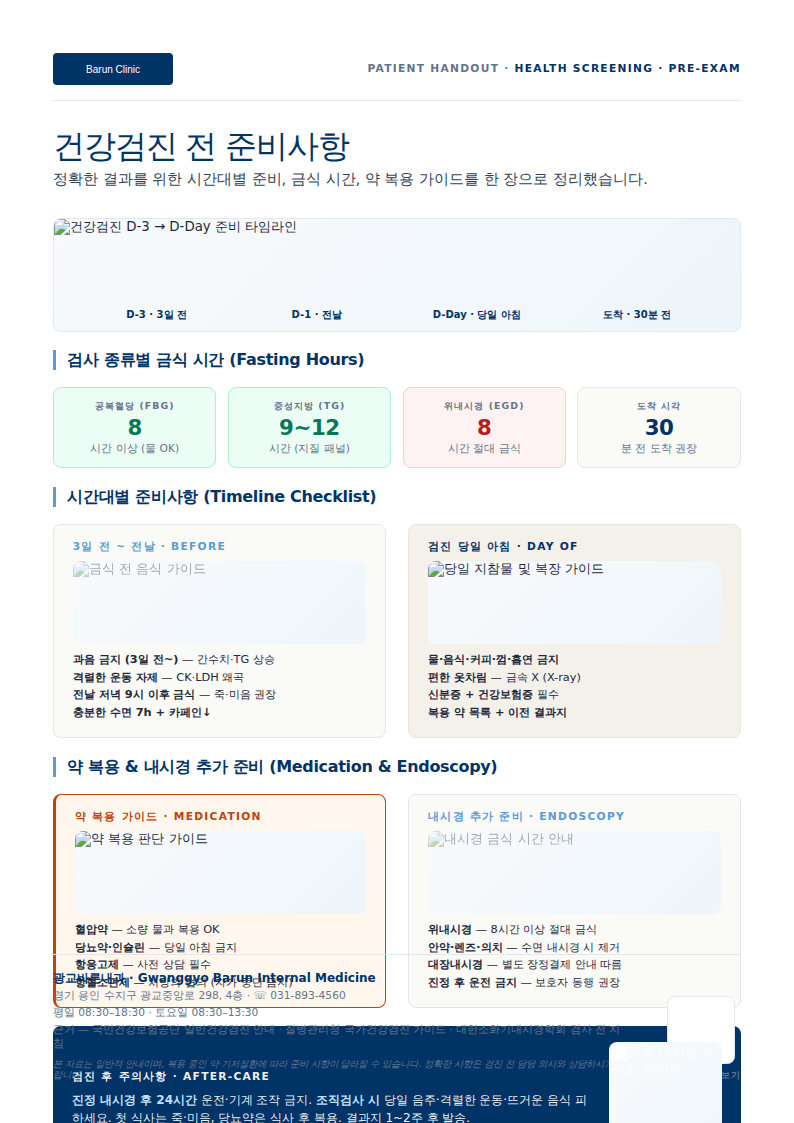
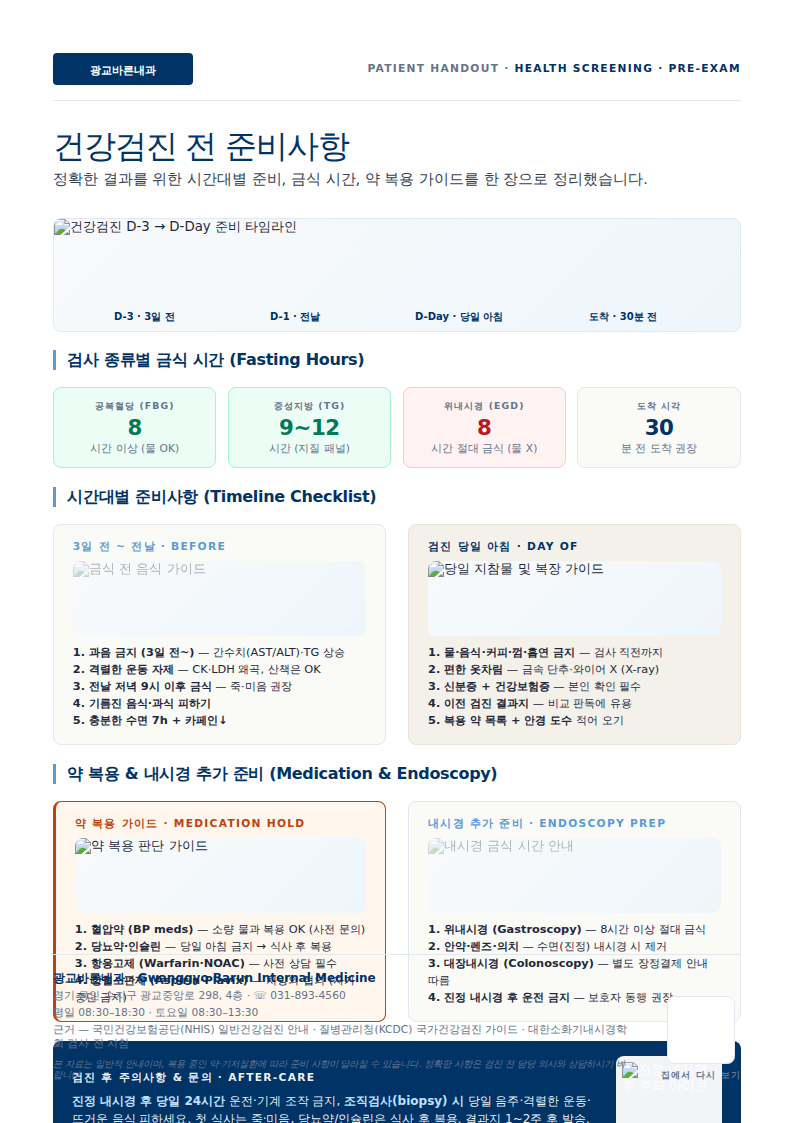
Finalize checkup-prep handout v2 with polished layout
- Restored full 5-item checklists for completeness
- Refined hero overlay grid columns to match image sections
- Added phone number to after-care card
- White container for post-sedation image in navy card
- Tightened image heights to 20mm for better density

https://claude.ai/code/session_012AgkqpJeVGjpJoXJLXrEUp

diff --git a/handouts/screening/checkup-prep/index.html b/handouts/screening/checkup-prep/index.html
@@ -37,14 +37,13 @@
   <!-- BODY -->
   <main class="page__body">
 
-    <!-- ★ IMAGE SLOT 1: 건강검진 준비 타임라인 (NEW — 182mm × 30mm) -->
+    <!-- 히어로 타임라인 인포그래픽 (182mm × 30mm, ratio 6.07:1, 2184×360px) -->
     <section>
       <div class="ai-visual" style="height:30mm; min-height:0; position:relative;">
         <img class="ai-visual__image"
              src="checkup-prep-timeline.png"
              alt="건강검진 D-3 → D-Day 준비 타임라인">
-        <!-- HTML overlay labels (이미지에 한글 텍스트 없으므로 오버레이) -->
-        <div style="position:absolute; inset:0; display:grid; grid-template-columns:repeat(4,1fr); align-items:end; padding:0 6mm 2.5mm;">
+        <div style="position:absolute; inset:0; display:grid; grid-template-columns:23% 23% 27% 23%; align-items:end; padding:0 4mm 2mm;">
           <div style="text-align:center; font-size:7.5pt; font-weight:600; color:var(--color-navy);">D-3 · 3일 전</div>
           <div style="text-align:center; font-size:7.5pt; font-weight:600; color:var(--color-navy);">D-1 · 전날</div>
           <div style="text-align:center; font-size:7.5pt; font-weight:600; color:var(--color-navy);">D-Day · 당일 아침</div>
@@ -70,7 +69,7 @@
         <div class="stat-cell stat-cell--high">
           <div class="stat-cell__label">위내시경 (EGD)</div>
           <div class="stat-cell__value">8</div>
-          <div class="stat-cell__unit">시간 절대 금식</div>
+          <div class="stat-cell__unit">시간 절대 금식 (물 X)</div>
         </div>
         <div class="stat-cell">
           <div class="stat-cell__label">도착 시각</div>
@@ -80,107 +79,103 @@
       </div>
     </section>
 
-    <!-- 시간대별 준비 (2-col: 음식 비주얼 + 당일 준비물) -->
+    <!-- 시간대별 준비사항 (2-col) -->
     <section>
       <h2 class="section-heading">시간대별 준비사항 (Timeline Checklist)</h2>
       <div class="body-2col">
 
-        <!-- 3일 전~전날: 기존 에셋 + 핵심 텍스트 -->
+        <!-- 3일 전~전날 -->
         <div class="card">
           <div class="card-label card-label--steel">3일 전 ~ 전날 · BEFORE</div>
-          <!-- ★ IMAGE SLOT 2: 기존 에셋 egd-prep-food-grid (88mm card 내부) -->
-          <div class="ai-visual" style="height:22mm; min-height:0; margin-bottom:2mm; border:none;">
+          <div class="ai-visual" style="height:20mm; min-height:0; margin-bottom:2mm; border:none;">
             <img class="ai-visual__image"
                  src="../../../shared/assets/generated/egd-prep-food-grid-20260513.png"
                  alt="금식 전 음식 가이드">
           </div>
-          <ul class="card-list" style="font-size:8.5pt; line-height:1.55;">
-            <li><strong>과음 금지 (3일 전~)</strong> — 간수치·TG 상승</li>
-            <li><strong>격렬한 운동 자제</strong> — CK·LDH 왜곡</li>
-            <li><strong>전날 저녁 9시 이후 금식</strong> — 죽·미음 권장</li>
-            <li><strong>충분한 수면 7h + 카페인↓</strong></li>
+          <ul class="card-list" style="font-size:8.5pt; line-height:1.5;">
+            <li><strong>1. 과음 금지 (3일 전~)</strong> — 간수치(AST/ALT)·TG 상승</li>
+            <li><strong>2. 격렬한 운동 자제</strong> — CK·LDH 왜곡, 산책은 OK</li>
+            <li><strong>3. 전날 저녁 9시 이후 금식</strong> — 죽·미음 권장</li>
+            <li><strong>4. 기름진 음식·과식 피하기</strong></li>
+            <li><strong>5. 충분한 수면 7h + 카페인↓</strong></li>
           </ul>
         </div>
 
-        <!-- 당일 아침: 새 이미지 + 핵심 텍스트 -->
+        <!-- 당일 아침 (78mm × 20mm 내부 이미지, ratio 3.9:1) -->
         <div class="card card--accent">
           <div class="card-label card-label--navy">검진 당일 아침 · DAY OF</div>
-          <!-- ★ IMAGE SLOT 3: 당일 지참물 + 복장 (NEW — 78mm × 22mm) -->
-          <div class="ai-visual" style="height:22mm; min-height:0; margin-bottom:2mm; border:none;">
+          <div class="ai-visual" style="height:20mm; min-height:0; margin-bottom:2mm; border:none;">
             <img class="ai-visual__image"
                  src="checkup-day-of-items.png"
                  alt="당일 지참물 및 복장 가이드">
           </div>
-          <ul class="card-list" style="font-size:8.5pt; line-height:1.55;">
-            <li><strong>물·음식·커피·껌·흡연 금지</strong></li>
-            <li><strong>편한 옷차림</strong> — 금속 X (X-ray)</li>
-            <li><strong>신분증 + 건강보험증</strong> 필수</li>
-            <li><strong>복용 약 목록 + 이전 결과지</strong></li>
+          <ul class="card-list" style="font-size:8.5pt; line-height:1.5;">
+            <li><strong>1. 물·음식·커피·껌·흡연 금지</strong> — 검사 직전까지</li>
+            <li><strong>2. 편한 옷차림</strong> — 금속 단추·와이어 X (X-ray)</li>
+            <li><strong>3. 신분증 + 건강보험증</strong> — 본인 확인 필수</li>
+            <li><strong>4. 이전 검진 결과지</strong> — 비교 판독에 유용</li>
+            <li><strong>5. 복용 약 목록 + 안경 도수</strong> 적어 오기</li>
           </ul>
         </div>
 
       </div>
     </section>
 
-    <!-- 약 복용 & 내시경 (2-col: 약 비주얼 + 내시경 비주얼) -->
+    <!-- 약 복용 & 내시경 (2-col) -->
     <section>
       <h2 class="section-heading">약 복용 & 내시경 추가 준비 (Medication & Endoscopy)</h2>
       <div class="body-2col">
 
-        <!-- 약 복용 가이드 -->
+        <!-- 약 복용 (78mm × 20mm 내부 이미지, ratio 3.9:1) -->
         <div class="card card--warning">
-          <div class="card-label card-label--warning">약 복용 가이드 · MEDICATION</div>
-          <!-- ★ IMAGE SLOT 4: 약 복용 판단 아이콘 (NEW — 78mm × 22mm) -->
-          <div class="ai-visual" style="height:22mm; min-height:0; margin-bottom:2mm; border:none;">
+          <div class="card-label card-label--warning">약 복용 가이드 · MEDICATION HOLD</div>
+          <div class="ai-visual" style="height:20mm; min-height:0; margin-bottom:2mm; border:none;">
             <img class="ai-visual__image"
                  src="checkup-medication-guide.png"
                  alt="약 복용 판단 가이드">
           </div>
-          <ul class="card-list" style="font-size:8.5pt; line-height:1.55;">
-            <li><strong>혈압약</strong> — 소량 물과 복용 OK</li>
-            <li><strong>당뇨약·인슐린</strong> — 당일 아침 금지</li>
-            <li><strong>항응고제</strong> — 사전 상담 필수</li>
-            <li><strong>항혈소판제</strong> — 처방의 협의 (자가 중단 금지)</li>
+          <ul class="card-list" style="font-size:8.5pt; line-height:1.5;">
+            <li><strong>1. 혈압약 (BP meds)</strong> — 소량 물과 복용 OK (사전 문의)</li>
+            <li><strong>2. 당뇨약·인슐린</strong> — 당일 아침 금지 → 식사 후 복용</li>
+            <li><strong>3. 항응고제 (Warfarin·NOAC)</strong> — 사전 상담 필수</li>
+            <li><strong>4. 항혈소판제 (Aspirin·Plavix)</strong> — 처방의 협의 (자가 중단 금지)</li>
           </ul>
         </div>
 
         <!-- 내시경 추가 준비 -->
         <div class="card">
-          <div class="card-label card-label--steel">내시경 추가 준비 · ENDOSCOPY</div>
-          <!-- ★ IMAGE SLOT 5: 기존 에셋 egd-prep-fasting-clock -->
-          <div class="ai-visual" style="height:22mm; min-height:0; margin-bottom:2mm; border:none;">
+          <div class="card-label card-label--steel">내시경 추가 준비 · ENDOSCOPY PREP</div>
+          <div class="ai-visual" style="height:20mm; min-height:0; margin-bottom:2mm; border:none;">
             <img class="ai-visual__image"
                  src="../../../shared/assets/generated/egd-prep-fasting-clock-20260513.png"
                  alt="내시경 금식 시간 안내">
           </div>
-          <ul class="card-list" style="font-size:8.5pt; line-height:1.55;">
-            <li><strong>위내시경</strong> — 8시간 이상 절대 금식</li>
-            <li><strong>안약·렌즈·의치</strong> — 수면 내시경 시 제거</li>
-            <li><strong>대장내시경</strong> — 별도 장정결제 안내 따름</li>
-            <li><strong>진정 후 운전 금지</strong> — 보호자 동행 권장</li>
+          <ul class="card-list" style="font-size:8.5pt; line-height:1.5;">
+            <li><strong>1. 위내시경 (Gastroscopy)</strong> — 8시간 이상 절대 금식</li>
+            <li><strong>2. 안약·렌즈·의치</strong> — 수면(진정) 내시경 시 제거</li>
+            <li><strong>3. 대장내시경 (Colonoscopy)</strong> — 별도 장정결제 안내 따름</li>
+            <li><strong>4. 진정 내시경 후 운전 금지</strong> — 보호자 동행 권장</li>
           </ul>
         </div>
 
       </div>
     </section>
 
-    <!-- 검진 후 안내 (navy card + 기존 진정 후 경고 이미지) -->
+    <!-- 검진 후 주의사항 (navy card + 기존 진정 후 경고 이미지) -->
     <section>
       <div class="card card--navy" style="display:grid; grid-template-columns:1fr auto; gap:4mm; align-items:center;">
         <div>
-          <div class="card-label">검진 후 주의사항 · AFTER-CARE</div>
+          <div class="card-label">검진 후 주의사항 & 문의 · AFTER-CARE</div>
           <div style="font-size:9pt; line-height:1.5;">
-            <strong style="color:var(--color-sky);">진정 내시경 후 24시간</strong> 운전·기계 조작 금지.
-            <strong style="color:var(--color-sky);">조직검사 시</strong> 당일 음주·격렬한 운동·뜨거운 음식 피하세요.
-            첫 식사는 죽·미음, 당뇨약은 식사 후 복용. 결과지 1~2주 후 발송.
+            <strong style="color:var(--color-sky);">진정 내시경 후 당일 24시간</strong> 운전·기계 조작 금지,
+            <strong style="color:var(--color-sky);">조직검사(biopsy) 시</strong> 당일 음주·격렬한 운동·뜨거운 음식 피하세요.
+            첫 식사는 죽·미음, 당뇨약/인슐린은 식사 후 복용. 결과지 1~2주 후 발송. 문의 ☏ 031-893-4560.
           </div>
         </div>
-        <!-- ★ IMAGE SLOT 6: 기존 에셋 egd-prep-post-sedation-warnings -->
-        <div class="ai-visual" style="width:30mm; height:30mm; min-height:0; border:none; border-radius:var(--radius-sm); overflow:hidden; flex-shrink:0;">
-          <img class="ai-visual__image"
-               src="../../../shared/assets/generated/egd-prep-post-sedation-warnings-20260513.png"
+        <div style="width:28mm; height:28mm; background:rgba(255,255,255,0.95); border-radius:var(--radius-sm); padding:1.5mm; flex-shrink:0;">
+          <img src="../../../shared/assets/generated/egd-prep-post-sedation-warnings-20260513.png"
                alt="진정 내시경 후 주의 아이콘"
-               style="object-fit:contain; padding:1mm; filter:brightness(0) invert(1) opacity(0.85);">
+               style="width:100%; height:100%; object-fit:contain; display:block;">
         </div>
       </div>
     </section>
@@ -193,7 +188,7 @@
       <div class="clinic-name">광교바른내과 · Gwanggyo Barun Internal Medicine</div>
       <div class="clinic-meta">경기 용인 수지구 광교중앙로 298, 4층 · ☏ 031-893-4560</div>
       <div class="clinic-meta">평일 08:30–18:30 · 토요일 08:30–13:30</div>
-      <div class="clinic-meta">근거 — 국민건강보험공단 일반건강검진 안내 · 질병관리청 국가건강검진 가이드 · 대한소화기내시경학회 검사 전 지침</div>
+      <div class="clinic-meta">근거 — 국민건강보험공단(NHIS) 일반건강검진 안내 · 질병관리청(KCDC) 국가건강검진 가이드 · 대한소화기내시경학회 검사 전 지침</div>
       <div class="disclaimer">본 자료는 일반적 안내이며, 복용 중인 약·기저질환에 따라 준비 사항이 달라질 수 있습니다. 정확한 사항은 검진 전 담당 의사와 상담하시기 바랍니다.</div>
     </div>
     <div class="qr-mini">
